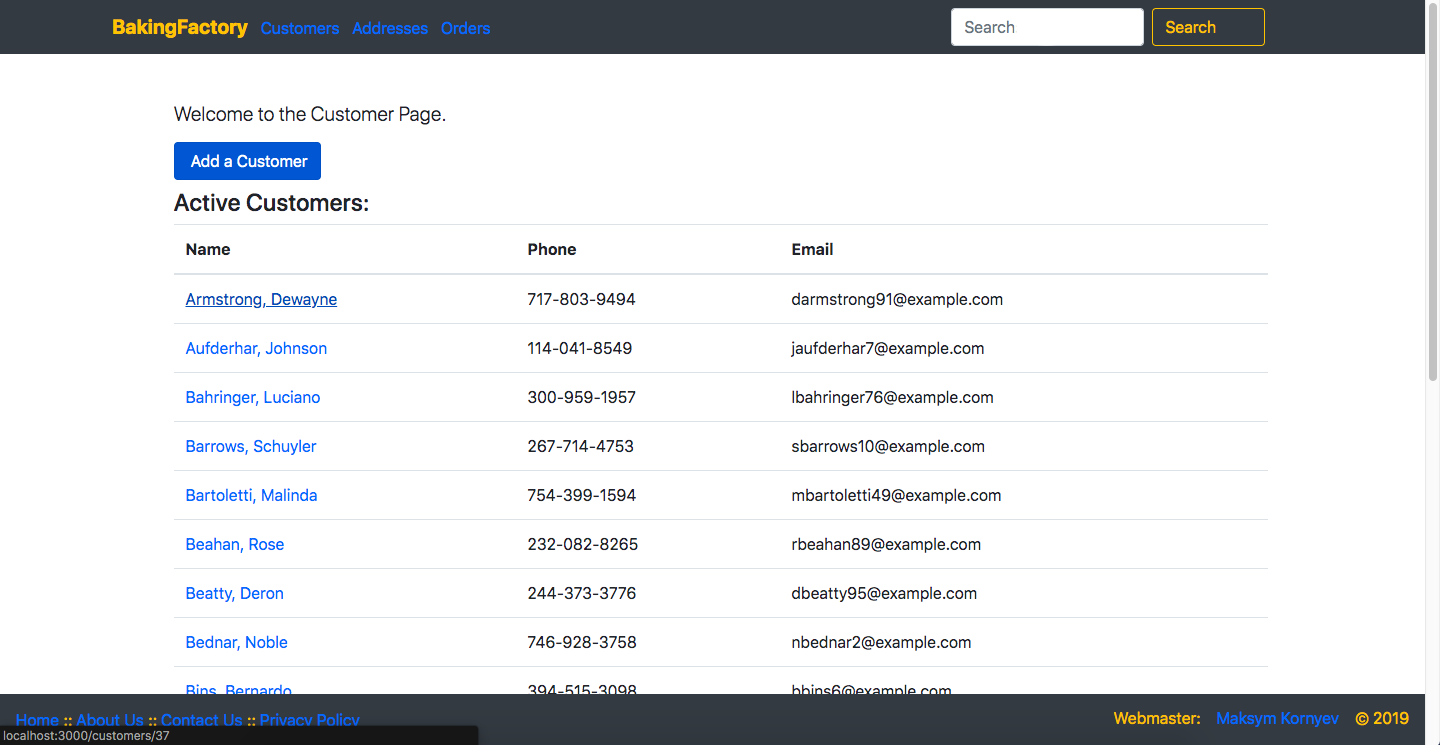
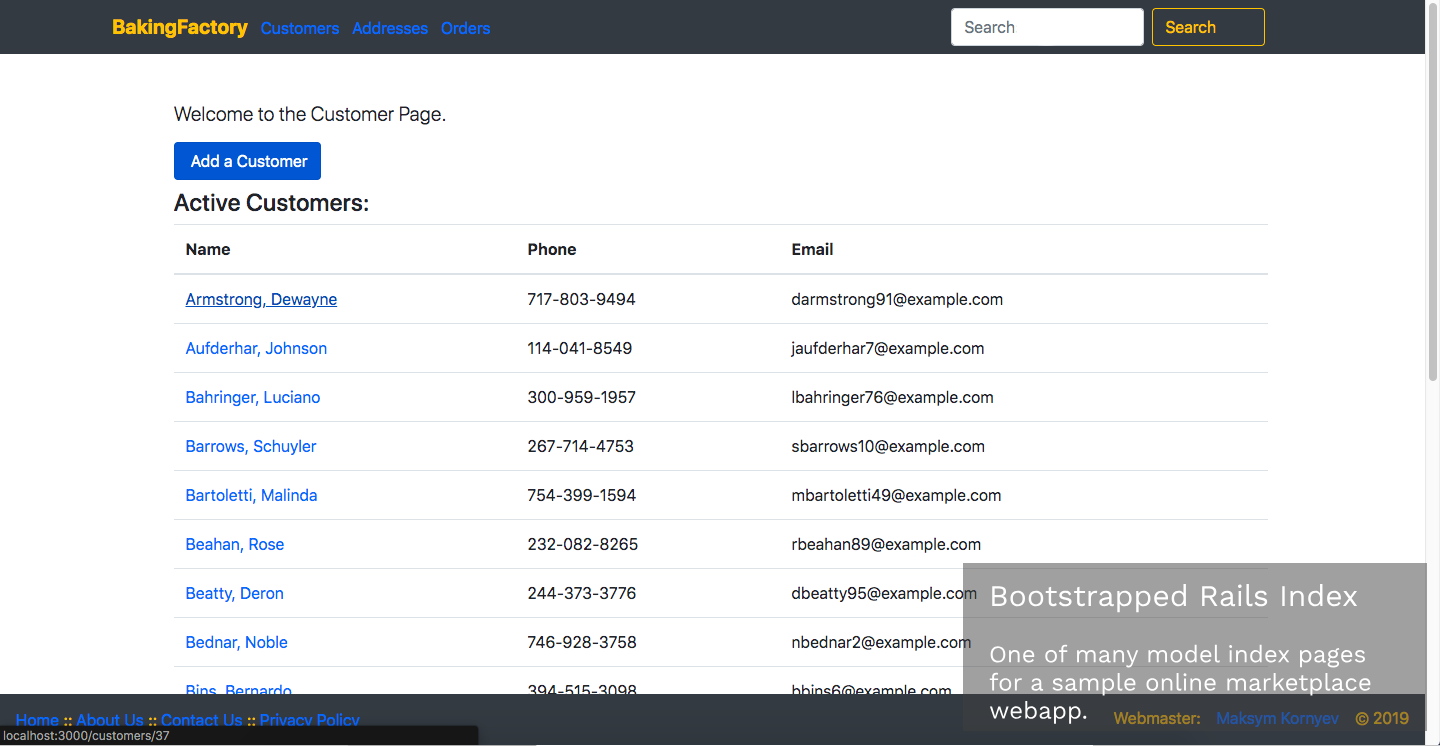
Carousel added

diff --git a/index.html b/index.html
@@ -184,7 +184,47 @@
 	</div>
 
 </body>
-
+<h5 style="margin-left: 15%;">What I've been building:</h5>
+<!-- Gallery, hardcoded height-->
+<div class="row" style="height: 517px; margin-bottom: 2%;">
+<div class="col">
+<div id="carouselExampleIndicators" class="carousel slide" data-ride="carousel" style="background-color: blue;">
+  <ol class="carousel-indicators">
+    <li data-target="#carouselExampleIndicators" data-slide-to="0" class="active"></li>
+    <li data-target="#carouselExampleIndicators" data-slide-to="1"></li>
+    <li data-target="#carouselExampleIndicators" data-slide-to="2"></li>
+    <li data-target="#carouselExampleIndicators" data-slide-to="3"></li>
+  </ol>
+  <div class="carousel-inner">
+    <div class="carousel-item active">
+      <img class="d-block w-100" src="my_images/bfcustomers.png" alt="First slide"">
+      <div class="carousel-caption d-none d-md-block">
+	    <h5>Rails Webapp</h5>
+	    <p>Working customer index</p>
+	  </div>
+    </div>
+    <div class="carousel-item">
+      <img class="d-block w-100" src="my_images/butterwoodwf.png" alt="Second slide">
+    </div>
+    <div class="carousel-item">
+      <img class="d-block w-100" src="my_images/butterwood.png" alt="Third slide">
+    </div>
+    <div class="carousel-item">
+      <img class="d-block w-100" src="my_images/swagger.png" alt="Fourth slide">
+    </div>
+  </div>
+  <a class="carousel-control-prev" href="#carouselExampleIndicators" role="button" data-slide="prev">
+    <span class="carousel-control-prev-icon" aria-hidden="true"></span>
+    <span class="sr-only">Previous</span>
+  </a>
+  <a class="carousel-control-next" href="#carouselExampleIndicators" role="button" data-slide="next">
+    <span class="carousel-control-next-icon" aria-hidden="true"></span>
+    <span class="sr-only">Next</span>
+  </a>
+</div>
+<!-- Gallery -->
+</div>
+</div>
 
 <div class="row border-top no-gutters footer pt-2">
 <div class="col align-self-start pl-5 ml-5">

diff --git a/CSS/bootstrapstyles.css b/CSS/bootstrapstyles.css
@@ -49,11 +49,48 @@
   color: #ffc107;
 }
 
-.gallery {
-  margin-left: 18%;
-  margin-bottom: 10px;
-  width: 65%;
-  height: 100%;
+div.carousel {
+  width: 1000px; 
+  height: 518px;
+  margin: auto;
+  border-top: 1px solid black;
+  margin-bottom: 0px;
+  padding-bottom: 0px;
+}
+
+    /* Bootstrap Carousel */
+/* ################################################ */
+
+.carouselExampleIndicators h5 {
+  background-color: black;
+  color: black;
+}
+
+.carousel-control-prev-icon,
+.carousel-control-next-icon {
+  height: 30px;
+  width: 30px;
+  outline: black;
+  background-size: 100%, 100%;
+  border-radius: 50%;
+  border: 7px solid black;
+  background-image: none;
+  font-weight: 940;
+  margin-bottom: 20%;
+  padding-top: 0px;
+}
+
+.carousel-control-next-icon:after
+{
+  font-size: 20px;
+  color: black;
+  margin-bottom: 10%;
+}
+
+.carousel-control-prev-icon:after {
+  font-size: 20px;
+  color: black;
+  margin-bottom: 10%;
 }
 
     /* Flipping effect. Credit: DavidWalsh.name */

diff --git a/projects.html b/projects.html
@@ -148,9 +148,6 @@
 	</div> <!-- Row End -->
 
 	</div> <!-- Container End --> 
-	
-	<!-- Gallery -->
-	<!-- Gallery -->
 
 	<div class="container">
 	<!-- 

diff --git a/JS/scripts.js b/JS/scripts.js
@@ -1,4 +1,7 @@
-
+// MDB Lightbox Init
+$(function () {
+$("#mdb-lightbox-ui").load("mdb-addons/mdb-lightbox-ui.html");
+});
 
 /* 
 
